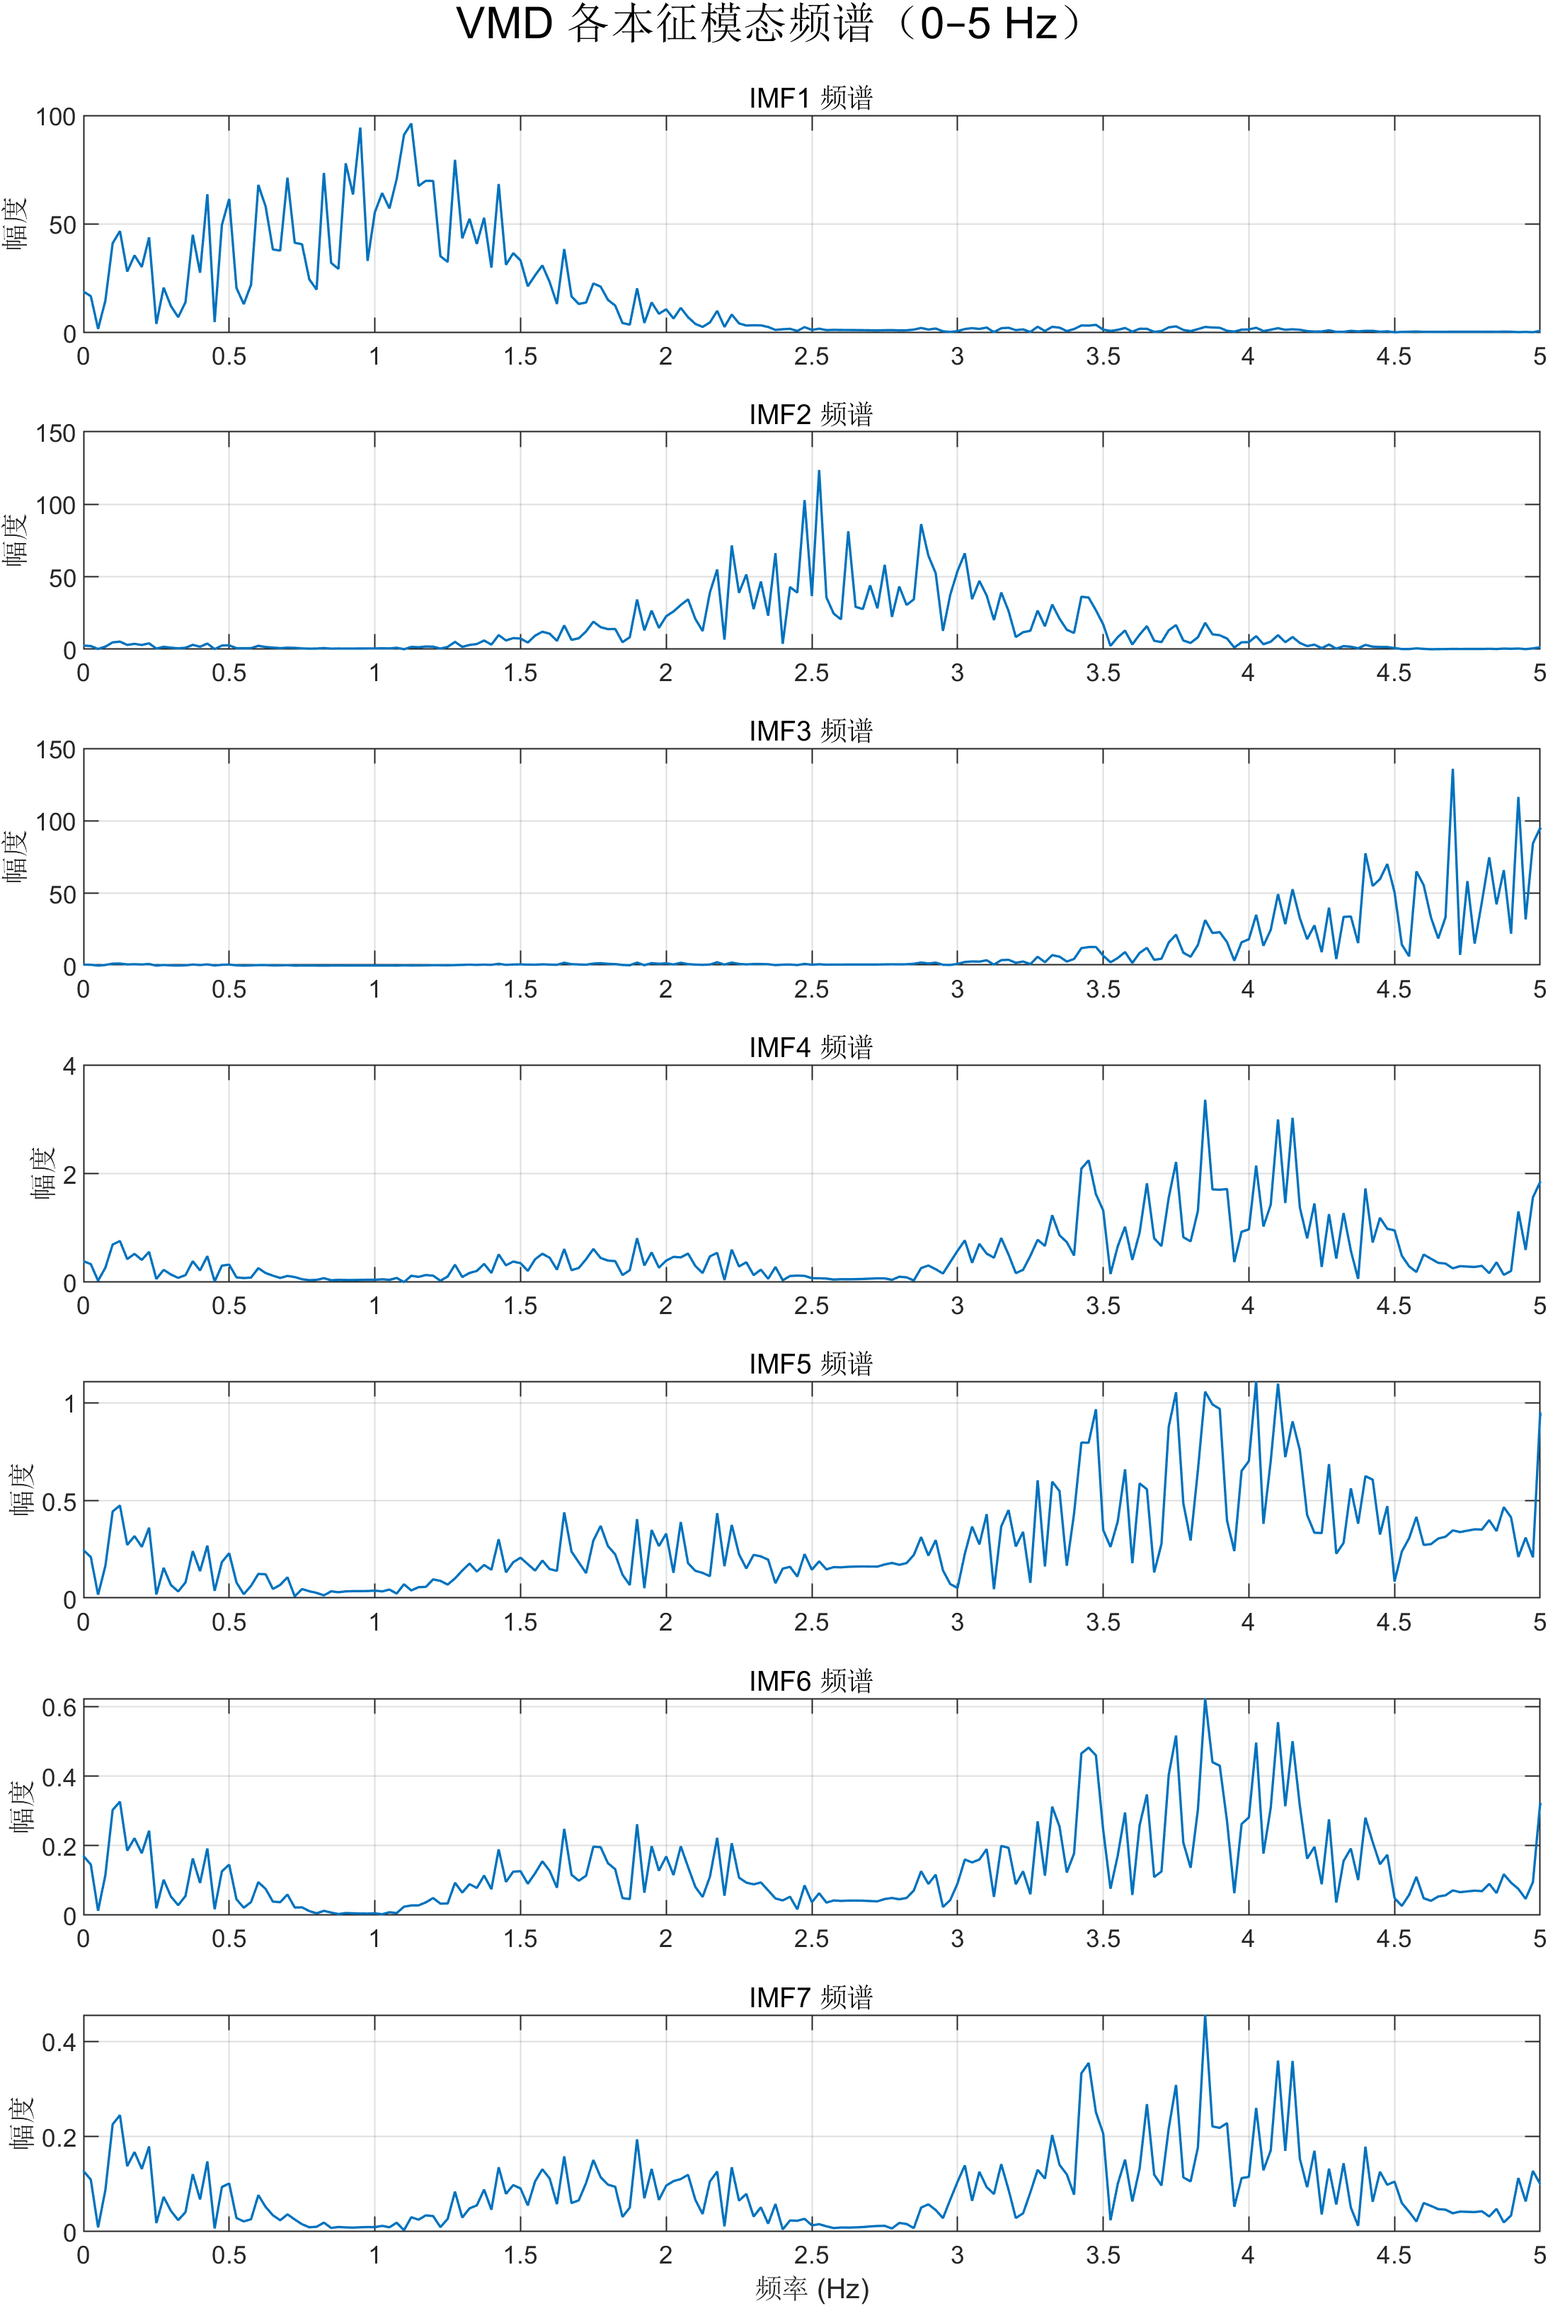
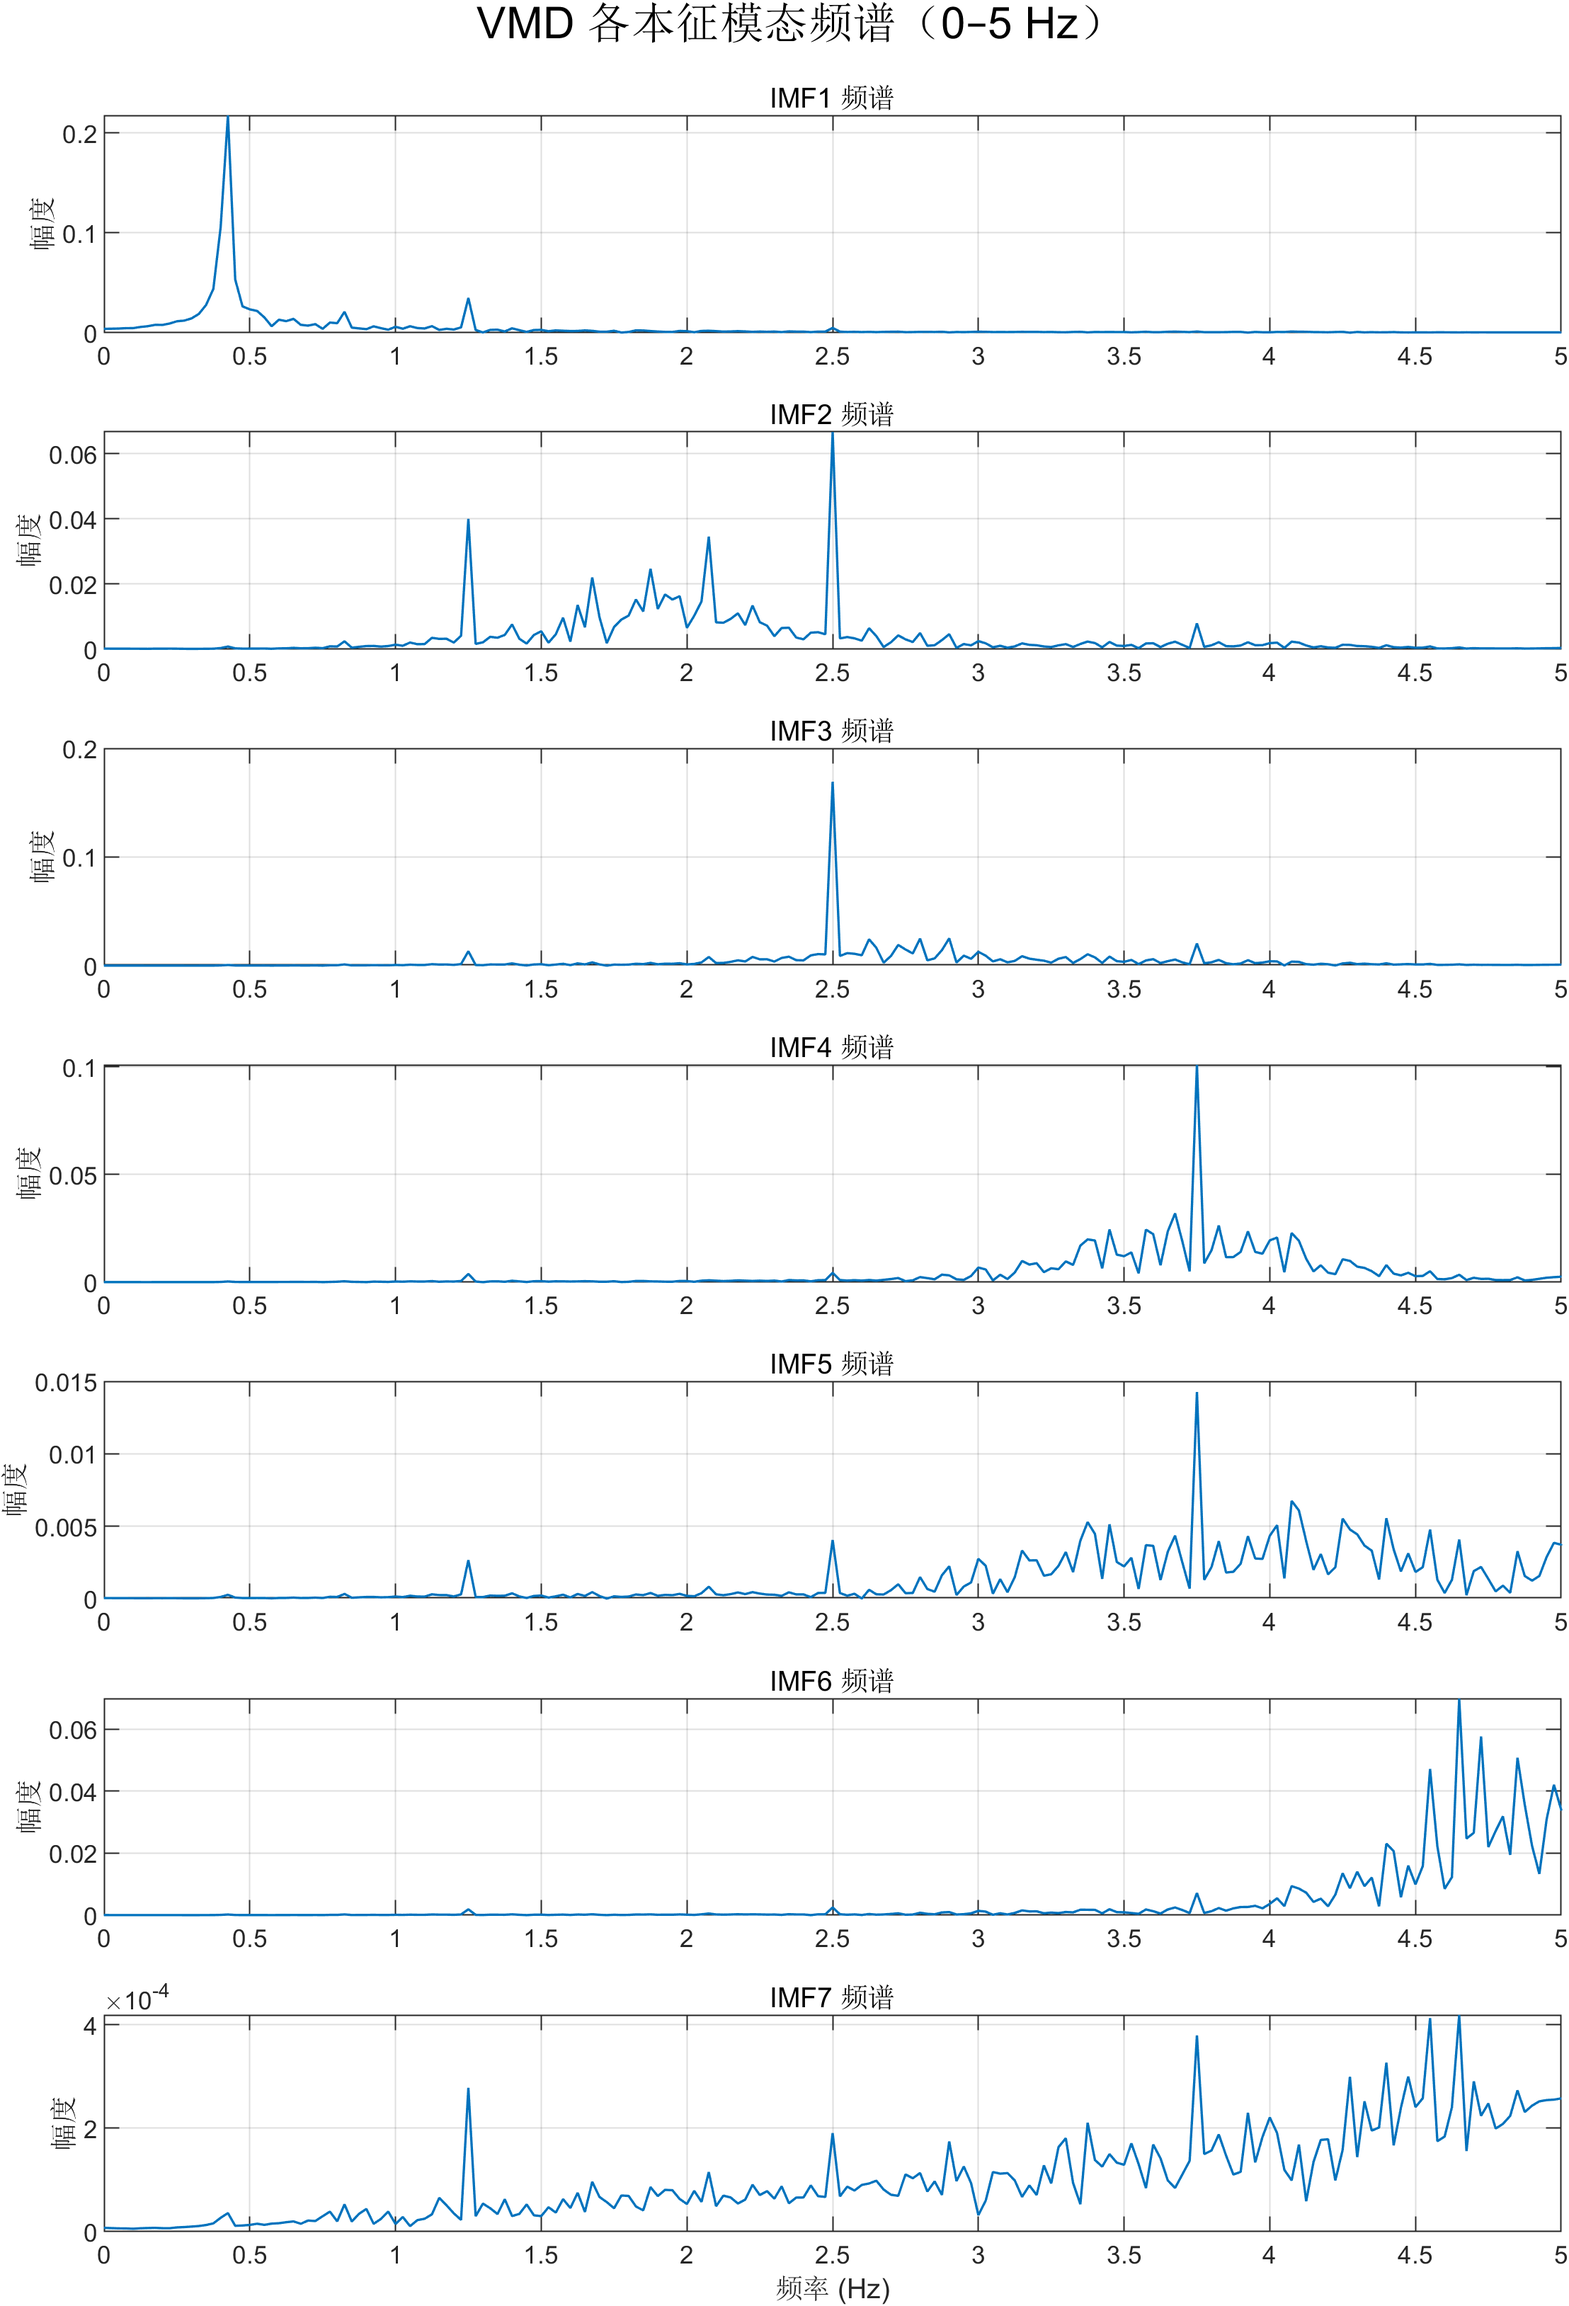
put_vmd: 心搏分离稳定化后重生成VMD图,删diag_noise.m
体表心搏位移1mm(文献上限量级)/SNR45dB/sine呼吸模型，
使心搏在VMD中稳定成独立模态；据此重生成图/下VMD各IMF与分离结果图。

diff --git a/put_vmd.m b/put_vmd.m
@@ -20,7 +20,7 @@
 % 说明3：main_test 里实测数据才需要的 f_phaseDenoise 脉冲去噪此处省略，
 %        仿真回波无随机噪声；其调用方式以注释保留在相位提取处。
 %
-% 输出：PNG（300 dpi）存到  数字孪生素材_开题报告/图/（默认加噪 SNR=20 dB，σ_n=RMS/10^(SNR/20)）
+% 输出：PNG（300 dpi）存到  数字孪生素材_开题报告/图/（默认加噪 SNR=45 dB，σ_n=RMS/10^(SNR/20)）
 %   组合图（保留）：fig6 全IMF时域、fig7 全IMF频谱、fig8 呼吸/心搏 2x2
 %   fig9 谱峰对照（总体系一归一化，保留心搏/呼吸实际幅度比）
 %   独立图（新增）：vmd_imf1..7_时域 / _频谱（每模态时域、频谱各一张）
@@ -46,7 +46,7 @@ Nframe       = total_frames;
 %% 数据来源开关：已用本脚本(含体表心搏脉冲)跑过并保存了无噪 Mix，
 % 设 true 直接加载再按 SNR 加噪，改 SNR/出图不用重跑 GPU 仿真(~92s)。
 % 若改了 STL 或 d_h_card 等仿真参数，需临时设 false 重仿真。
-reuse_Mix = false;
+reuse_Mix = true;
 mix_mat   = fullfile(thisdir,'put_vmd_Mix_40s.mat');
 
 %% ==================== === 生理模型参数（与 wanzheng.m 一致） ====================
@@ -60,6 +60,14 @@ tau_h_chest    = T_h_chest / 3;
 sigma_h_chest  = T_h_chest / 5;
 d_h_chest      = 0.003;      % 胸腔最大形变位移 [m]
 direction_chest = [-0.5, -1.0, 0.0];
+
+% 呼吸波形模型（put_vmd 信号级孪生）：
+%   'sine'（默认）：单频平滑呼吸 0.5-0.5cos(2pi t/T_b)，周期 2.4s、零谐波，
+%           使心搏带(0.8-2Hz)干净、VMD 能稳定分离心搏(1.25Hz)。雷达生命体征文献常用简化。
+%   '4seg'：四段式(与 wanzheng.m 动画同)，但其高次谐波(0.83/1.25/1.67Hz…)会落在心搏带、
+%           干扰心搏分离；可用 breath_smooth_s 圆滑拐角缓解。
+breath_model = 'sine';
+breath_smooth_s = 0.12;   % 仅 '4seg' 时使用：平滑半窗 [s]（0=不平滑）
 
 x_min_chest = -0.13; x_max_chest = 0.13;
 y_min_chest = -0.2;  y_max_chest = 0;
@@ -83,11 +91,12 @@ w_chest = 1;
 w_heart = 1e-3;
 
 % 体表心搏微动（心前区胸壁脉冲）—— put_vmd 在胸腔表面叠加与心搏同相位的高斯形变。
-% 理由：FMCW 实际测量对象是"体表复合微动"，心搏经胸壁耦合到体表产生 0.1-0.5 mm 量级
-% 位移；只靠深部心脏(权重 1e-3)时心搏分量过弱、无法从呼吸谐波中分离，故在胸腔"心前区"
-% 表面显式加入心搏脉冲用于机理验证。注：本改动仅作用于 put_vmd，wanzheng.m 动画不变。
+% 理由：FMCW 实际测量对象是"体表复合微动"，心搏经胸壁耦合到体表（文献量级约 0.1-1 mm，
+% 这里取 1 mm 以保证 VMD 能单独成模、且低 SNR 下仍稳定分离）；只靠深部心脏(权重 1e-3)
+% 时心搏分量过弱无法分离。注：本改动仅作用于 put_vmd，wanzheng.m 动画不变。
 use_cardiac_skin_pulse = true;
-d_h_card   = 0.0015;                % 心前区体表心搏位移幅度 [m]（试1.5 mm 保20dB检出）
+d_h_card   = 0.001;                  % 心前区体表心搏位移幅度 [m]（1 mm，文献心尖搏动上限量级；
+                                     % 0.5mm 太弱 VMD 难单独成模，20dB 亦不可检出）
 card_wxyz  = [0.035 0.05 0.04];      % 心前区高斯包络展宽 [m]（x, y, z）
 
 % ---- 接收机热噪声 / 器件噪声：复高斯白噪声 n~CN(0, sigma_n^2) ----
@@ -95,7 +104,10 @@ card_wxyz  = [0.035 0.05 0.04];      % 心前区高斯包络展宽 [m]（x, y, z
 %   sigma_n = RMS(无噪回波) / 10^(SNR_dB/20)，RMS 取整个回波复数幅度均方根。
 % 固定 rng 种子保证可复现；只调 SNR_dB 即可扫不同信噪比（配合 reuse_Mix=true 免重仿真）。
 add_noise = true;
-SNR_dB    = 20;                      % 信噪比 [dB]
+% 默认 45 dB：噪声按"整回波 RMS"计(σ_n=RMS/10^(SNR/20))。量测阈值：1mm 体表心搏要在
+% VMD 中成独立模态约需 >=45 dB；40 开始退化，35 及以下心搏被噪声淹没(仅呼吸仍稳)。
+% 若想演示低信噪比下的心搏失效，把 SNR_dB 调低即可。
+SNR_dB    = 45;                      % 信噪比 [dB]
 rng_seed  = 0;
 
 % ---------------- 真值（由周期推出，供对照，不硬编码） ----------------
@@ -252,20 +264,39 @@ else
     Mix = zeros(N_rx, Nsample, Nchirp, Nframe);
     fprintf('开始 %d s / %d 帧 回波仿真（进度每 50 帧打印一次）...\n', total_seconds, Nframe);
     tSim = tic;
+    % 呼吸单周期波形（按帧查表，节律仍 T_b=2.4 s = 25 次/min）
+    perB = round(T_b * fps);                        % 每周期帧数（=60）
+    ttB  = (0:perB-1)/fps;
+    switch lower(breath_model)
+        case 'sine'
+            MpB = 0.5*(1 - cos(2*pi*ttB/T_b));      % 单频、零谐波
+        case '4seg'
+            MpB = zeros(1, perB);
+            for j = 1:perB
+                tmc = ttB(j);
+                if tmc < T_in
+                    MpB(j) = sin( (pi/2)*(tmc/T_in) )^2;
+                elseif tmc < T_in + T_plateau
+                    MpB(j) = 1;
+                elseif tmc < T_in + T_plateau + T_out
+                    xq = (tmc - T_in - T_plateau)/T_out;
+                    MpB(j) = sin( (pi/2) + (pi/2)*xq )^2;
+                else
+                    MpB(j) = 0;
+                end
+            end
+            if breath_smooth_s > 0                  % 可选：圆周平滑削拐角谐波
+                nker = max(1, round(breath_smooth_s*fps));
+                kk   = -nker:nker;
+                ker  = (1 + cos(pi*kk/nker))/2; ker = ker/sum(ker);
+                MpB = cconv(MpB, ker, perB);
+            end
+        otherwise
+            error('breath_model 需为 ''sine'' 或 ''4seg''');
+    end
     for frame = 1:Nframe
+        M_t_chest = MpB(1 + mod(frame-1, perB));    % 呼吸四段式（平滑后）
         t = (frame-1)/fps;
-        % 呼吸四段式调制（胸腔）
-        t_mod_chest = mod(t, T_h_chest);
-        if t_mod_chest < T_in
-            M_t_chest = sin( (pi/2)*(t_mod_chest/T_in) )^2;
-        elseif t_mod_chest < T_in + T_plateau
-            M_t_chest = 1;
-        elseif t_mod_chest < T_in + T_plateau + T_out
-            xq = (t_mod_chest - T_in - T_plateau)/T_out;
-            M_t_chest = sin( (pi/2) + (pi/2)*xq )^2;
-        else
-            M_t_chest = 0;
-        end
         % 心搏高斯脉冲（心脏）
         t_mod_heart = mod(t, T_h_heart);
         M_t_heart = exp(-((t_mod_heart - tau_h_heart)/sigma_h_heart)^2);
@@ -331,22 +362,27 @@ end
 % 取 RX1 第一 chirp（与 main_test / wanzheng 注释段一致）
 mix1 = squeeze(Mix(1,:,1,:));                 % Nsample x Nframe
 RangeFFT = fft(mix1 .* hanning(Nsample), Nsample, 1);   % 加汉宁窗后沿快时间做 FFT
-RangeFFTcor = RangeFFT - mean(RangeFFT,2);    % 慢时间去均值（去静止杂波）
 
 % 自动选最强距离 bin（主目标所在 bin）
 [~, MaxIndex] = max(mean(abs(RangeFFT),2));
 fprintf('选中距离 bin %d（≈ %.3f m，主目标胸腔）\n', MaxIndex, (MaxIndex-1)*rangeRes);
 
-% 取该 bin 的复数序列 -> 增量相位（与 main_test 的 phi2 公式一致）
-I = real(RangeFFTcor(MaxIndex,:));
-Q = imag(RangeFFTcor(MaxIndex,:));
-phi = zeros(1,Nframe);
-for k = 2:Nframe
-    dI = I(k)-I(k-1);
-    dQ = Q(k)-Q(k-1);
-    phi(k) = phi(k-1) + ( I(k)*dQ - Q(k)*dI ) / ( I(k)^2 + Q(k)^2 );
-end
-angleDenoised = diff(phi);                    % 相位增量序列（Nframe-1 点）
+% 相位提取：直接对该 bin 的复数相量 angle 做 unwrap 后逐帧差分（不去慢时间均值）。
+% 去均值会把相量中心移到原点附近，噪声下增量相位偶发尖刺污染低频谱（因此 main_test
+% 实测里才要 f_phaseDenoise 去刺）；仿真主目标相量幅值恒定很大，不靠近原点，
+% 直接 unwrap 对噪声更稳健，呼吸率在低 SNR 下仍稳定。
+phase_bin = unwrap(angle(RangeFFT(MaxIndex,:)));      % 慢时间相位 [rad]
+angleDenoised = diff(phase_bin);                      % 相位增量序列（Nframe-1 点）
+
+% 备选：main_test 的去均值 + 增量相位公式（保留供对照）
+% RangeFFTcor = RangeFFT - mean(RangeFFT,2);
+% I = real(RangeFFTcor(MaxIndex,:)); Q = imag(RangeFFTcor(MaxIndex,:));
+% phi = zeros(1,Nframe);
+% for k=2:Nframe
+%     dI=I(k)-I(k-1); dQ=Q(k)-Q(k-1);
+%     phi(k)=phi(k-1)+(I(k)*dQ-Q(k)*dI)/(I(k)^2+Q(k)^2);
+% end
+% angleDenoised = diff(phi);
 
 % 实测数据才做的脉冲去噪（main_test 用 f_phaseDenoise，仿真数据无脉冲噪声故省略）
 % angleDenoised2 = angleDenoised;
